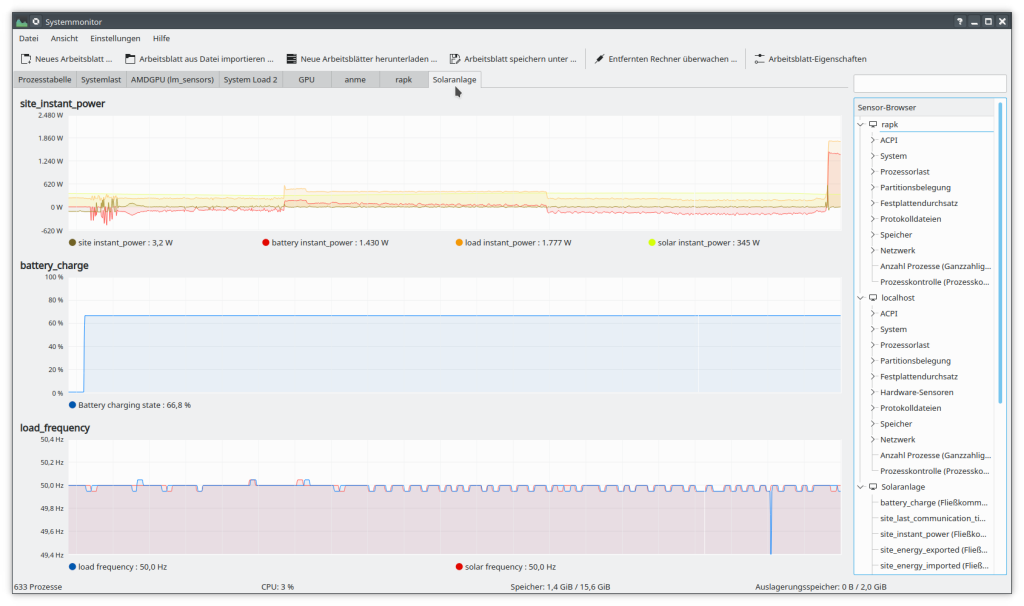
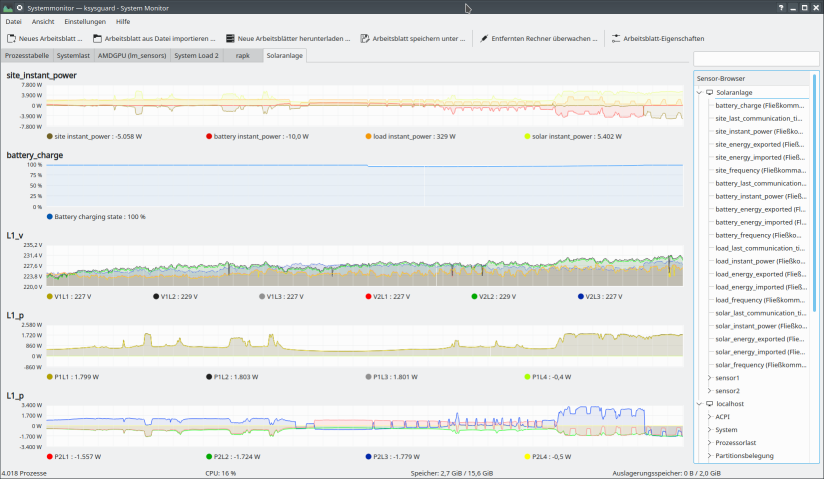
update documentation

Changed region(s): [[0.0, 0.0, 1.0, 1.0], [0.4248, 0.38, 0.5765, 0.4092], [0.2427, 0.38, 0.3944, 0.4092]]

diff --git a/README.md b/README.md
@@ -10,6 +10,7 @@ Currently it consists of several more or less related main components:
 1. [teslogger.sh](teslogger.sh)  
    The logger runs 24/7 on a Raspberry Pi and collects json messages
    from the Tesla Powerwall Gateway via ethernet.
+   It can also do some conversion of the logged files, see option -h.
 
 2. [tlpower.m](tlpower.m)  
    The postprocessor runs on GNU Octave or Matlab and currently can 
@@ -31,9 +32,8 @@ If you consider using this material, some IP adresses need to be patched.
 
 * update Feb 2021: unfortunately Tesla updated the Gateway Software
   behind the scene to 20.49.0 on 2021-02-02. 
-  As a consecquence https access to the sensor data did not work anymore.
-  This is very annoying and should yield bad reputation for Tesla,
-  especially since they are stubbornly refusing to publish the API.
+  As a consequence https access to the sensor data did not work anymore.
+  This is very annoying, especially since Tesla does not publish the API.
 
 * update Mar 2021: Thanks to https://github.com/vloschiavo/powerwall2.git
   access is possible using cookies.
@@ -41,7 +41,7 @@ If you consider using this material, some IP adresses need to be patched.
 
 ## Screenshots
 
-This is a view of live solar data in the system monitor
+This is a view of live solar data in the Linux ksysguard system monitor
 
   ![](doc/ksysguard_screenshot.png)
 
